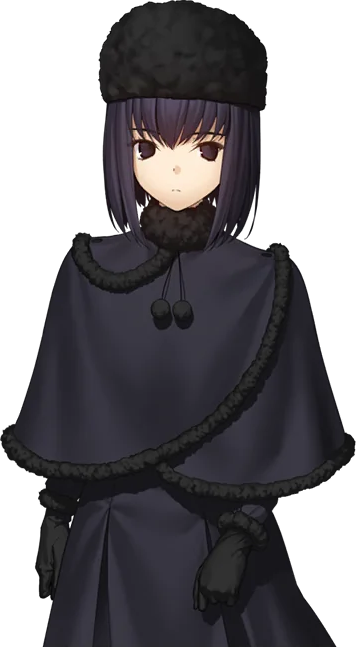
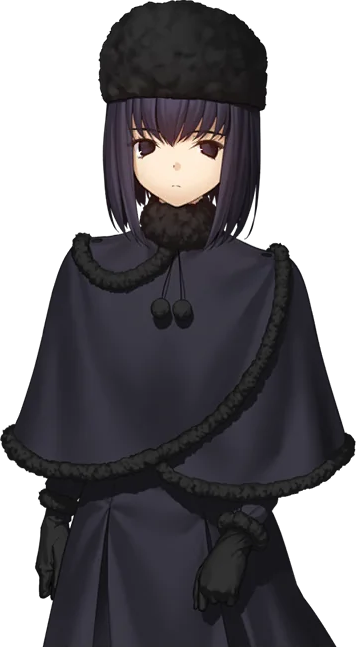
fix: 增强桌宠上下俯仰辨识度

Changed region(s): [[0.3708, 0.1855, 0.618, 0.2782], [0.3708, 0.2782, 0.5562, 0.34], [0.5562, 0.2782, 0.618, 0.34]]

diff --git a/tests/pet.test.js b/tests/pet.test.js
@@ -270,6 +270,8 @@ test('鼠标转向试验帧采用局部语义变形并保留透明边缘', () =>
   assert.ok(script.includes('desired_shift = 4.6 * horizontal'), '脸部偏转必须达到肉眼可辨识的幅度');
   assert.ok(script.includes('move_x=1.75 * horizontal'), '眼神应明显领先脸部转向');
   assert.ok(script.includes('add_face_pitch'), '上下方向应使用独立的脸部俯仰透视');
+  assert.ok(script.includes('desired_shift = 6.6 * vertical'), '上下方向必须达到实际桌宠尺寸下肉眼可辨识的幅度');
+  assert.ok(script.includes('move_y=2.6 * vertical'), '上下眼神应额外领先脸部俯仰');
   assert.ok(script.includes('add_body_yaw'), '身体应使用绕竖轴的局部透视，而不是整体倾斜');
   assert.ok(script.includes('right_move = 0.9 * horizontal - 0.55 * abs(horizontal)'), '远侧肩线应有可辨识的透视内收');
   assert.ok(!script.includes('left_shoulder, move_y=') && !script.includes('right_shoulder, move_y='), '身体转向不应制造高低肩');

diff --git a/scripts/make-pet-look-pilot.py b/scripts/make-pet-look-pilot.py
@@ -60,8 +60,8 @@ def add_face_pitch(dy, xx, yy, vertical):
         return
     cx, cy = 178.0, 169.0
     region = soft_ellipse(xx, yy, cx, cy, 55.0, 77.0, 1.15)
-    desired_shift = 3.4 * vertical
-    vertical_scale = 1.0 - 0.026 * abs(vertical)
+    desired_shift = 6.6 * vertical
+    vertical_scale = 1.0 - 0.05 * abs(vertical)
     inverse_offset = (yy - cy - desired_shift) / vertical_scale - (yy - cy)
     dy += inverse_offset * region
 
@@ -84,8 +84,8 @@ def add_body_pitch(dy, xx, yy, vertical):
         return
     cx, cy = 178.0, 300.0
     region = soft_ellipse(xx, yy, cx, cy, 150.0, 112.0, 1.35)
-    desired_shift = 0.55 * vertical
-    vertical_scale = 1.0 - 0.008 * abs(vertical)
+    desired_shift = 0.9 * vertical
+    vertical_scale = 1.0 - 0.012 * abs(vertical)
     inverse_offset = (yy - cy - desired_shift) / vertical_scale - (yy - cy)
     dy += inverse_offset * region
 
@@ -132,19 +132,19 @@ def make_look(source, horizontal, vertical):
     # 眼神比脸先多走一点，鼻尖和嘴只跟随半步，避免五官像贴纸般一起滑动。
     for eye_x in (151.0, 204.0):
         eye = soft_ellipse(xx, yy, eye_x, 153.0, 14.0, 10.0, 1.4)
-        add_shift(dx, dy, xx, yy, eye, move_x=1.75 * horizontal, move_y=1.25 * vertical)
+        add_shift(dx, dy, xx, yy, eye, move_x=1.75 * horizontal, move_y=2.6 * vertical)
     nose_mouth = soft_ellipse(xx, yy, 178.0, 184.0, 24.0, 28.0, 1.3)
-    add_shift(dx, dy, xx, yy, nose_mouth, move_x=0.85 * horizontal, move_y=0.65 * vertical)
+    add_shift(dx, dy, xx, yy, nose_mouth, move_x=0.85 * horizontal, move_y=1.25 * vertical)
 
     # 刘海内层产生小于一像素的视差，外轮廓保持稳定。
     inner_hair = soft_ellipse(xx, yy, 178.0, 125.0, 50.0, 36.0, 1.7)
-    add_shift(dx, dy, xx, yy, inner_hair, move_x=1.0 * horizontal, move_y=0.5 * vertical)
+    add_shift(dx, dy, xx, yy, inner_hair, move_x=1.0 * horizontal, move_y=0.9 * vertical)
 
     # 颈部、衣领与披风上半部跟随左转；位移在腰部前完全衰减。
     neck = soft_ellipse(xx, yy, 178.0, 238.0, 48.0, 42.0, 1.2)
-    add_shift(dx, dy, xx, yy, neck, move_x=2.1 * horizontal, move_y=1.2 * vertical)
+    add_shift(dx, dy, xx, yy, neck, move_x=2.1 * horizontal, move_y=2.0 * vertical)
     collar_and_pendants = soft_ellipse(xx, yy, 178.0, 272.0, 92.0, 70.0, 1.3)
-    add_shift(dx, dy, xx, yy, collar_and_pendants, move_x=1.35 * horizontal, move_y=0.7 * vertical)
+    add_shift(dx, dy, xx, yy, collar_and_pendants, move_x=1.35 * horizontal, move_y=1.15 * vertical)
     add_body_yaw(dx, xx, yy, horizontal)
     add_body_pitch(dy, xx, yy, vertical)
 
